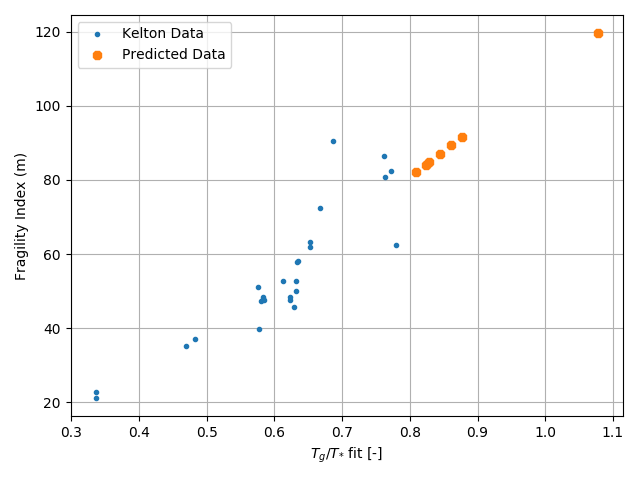
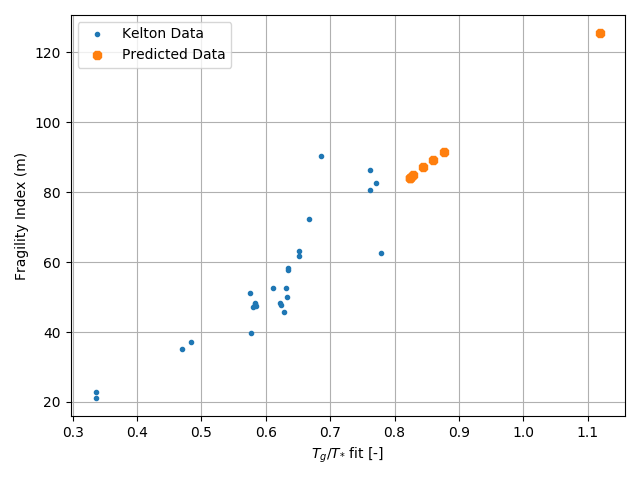
Further organized data. MD now has tl and dmax from experiments. They are separated by paper source

diff --git a/ml/data_original/md.py b/ml/data_original/md.py
@@ -1,41 +1,64 @@
 import pandas as pd
 
-df = pd.read_csv('data.txt')
 
+def md_data(dfexp, dfmd, source):
+
+    # Filter by source
+    dfexp = dfexp[dfexp['source'].isin([source])]
+
+    # Truncate data
+    dfexp = dfexp[['composition', 'tl', 'tg', 'dmax']]
+    dfmd = dfmd[['composition', 'tg', 'tstar']]
+
+    # Take mean experimental values
+    dfexp = dfexp.groupby(['composition']).mean()
+    dfexp = dfexp.dropna()
+
+    # Change Tg naming convention
+    dfexp = dfexp.rename({'tg': 'tg_exp'}, axis=1)
+    dfmd = dfmd.rename({'tg': 'tg_md'}, axis=1)
+
+    # Combine use experimental Tl values for MD
+    dfmd = pd.merge(
+                    dfmd,
+                    dfexp,
+                    on=['composition']
+                    )
+
+    # Take statistic values for each composition
+    groups = dfmd.groupby(['composition'])
+    mean = groups.mean().add_suffix('_mean').reset_index()
+    std = groups.std().add_suffix('_std').reset_index()
+    sem = groups.sem().add_suffix('_sem').reset_index()
+    count = groups.count().add_suffix('_count').reset_index()
+
+    # Combine statistics
+    mean = mean.merge(std)
+    mean = mean.merge(sem)
+    mean = mean.merge(count)
+
+    # Save source
+    mean['source'] = source
+
+    return mean
+
+
+# Load Data
+df = pd.read_csv('data.txt')
 
 # Separte md and experimental data
 dfexp = df[df['method'].isin(['experimental'])]
 dfmd = df[df['method'].isin(['md'])]
 
-# Truncate data
-dfexp = dfexp[['composition', 'tl', 'tg', 'dmax']]
-dfmd = dfmd[['composition', 'tg', 'tstar']]
+# Loop for all sources
+mean = []
+for source in set(df['source'].values):
 
-# Take mean experimental values
-dfexp = dfexp.groupby(['composition']).mean()
-dfexp = dfexp.dropna()
+    if source != source:
+        continue
 
-# Change Tg naming convention
-dfexp = dfexp.rename({'tg': 'tg_exp'}, axis=1)
-dfmd = dfmd.rename({'tg': 'tg_md'}, axis=1)
+    mean.append(md_data(dfexp, dfmd, source))
 
-# Combine use experimental Tl values for MD
-dfmd = pd.merge(
-                dfmd,
-                dfexp,
-                on=['composition']
-                )
+mean = pd.concat(mean, sort=True)
 
-# Take statistic values for each composition
-groups = dfmd.groupby(['composition'])
-mean = groups.mean().add_suffix('_mean').reset_index()
-std = groups.std().add_suffix('_std').reset_index()
-sem = groups.sem().add_suffix('_sem').reset_index()
-count = groups.count().add_suffix('_count').reset_index()
-
-# Combine statistics
-mean = mean.merge(std)
-mean = mean.merge(sem)
-mean = mean.merge(count)
-
-mean.to_csv('data_mean.txt', index=False)
+mean.to_csv('md_mean.txt', index=False)

diff --git a/ml/scripts/fit_johnson_m_fits.py b/ml/scripts/fit_johnson_m_fits.py
@@ -17,48 +17,39 @@ def score(r2, mse, mseoversigmay):
 
     return label
 
+
 # Data paths
-df = '../data_original/data.txt'
+dfmd = '../data_original/md_mean.txt'
 dfmfit = '../data/m_fit.txt'
 dfj = '../data_original/johnson_data.txt'
 
 # Import data
-df = pd.read_csv(df)
+dfmd = pd.read_csv(dfmd)
 dfmfit = pd.read_csv(dfmfit)
 dfj = pd.read_csv(dfj)
 
-# Separte md and experimental data
-dfexp = df[df['method'].isin(['experimental'])]
-dfmd = df[df['method'].isin(['md'])]
-
-# Truncate data
-dfexp = dfexp[['composition', 'tl', 'tg/tl', 'm', 'dmax']]
-dfmd = dfmd[['composition', 'tg']]
-
 # Combine fitted m with Trg values from md
-dfmfit = pd.merge(
-                  dfmfit,
-                  dfexp.drop(['m', 'tg/tl'], axis=1),
-                  on=['composition']
-                  )
-dfmfit = pd.merge(dfmfit, dfmd, on=['composition'])
-dfmfit['tg/tl'] = dfmfit['tg']/dfmfit['tl']
+dfmfit = pd.merge(dfmfit, dfmd)
 
 # Truncate data
-dfmfit = dfmfit[['composition', 'tg/tl', 'm', 'dmax']].dropna()
-dfj = dfj[['composition', 'tg/tl', 'm', 'dmax']].dropna()
 dfj = dfj.dropna()
+dfmfit = dfmfit.dropna()
 
 # Remove md data from johnson data
 dfj = dfj[~dfj['composition'].isin(dfmfit['composition'].values)]
 
+# Calculate features
+dfmfit['tg_md/tl'] = dfmfit['tg_md_mean']/dfmfit['tl_mean']
+dfmfit['tg_exp/tl'] = dfmfit['tg_exp_mean']/dfmfit['tl_mean']
+dfj['tg/tl'] = dfj['tg']/dfj['tl']
+
 # Take the log of the squared dmax
 dfj['log(dmax^2)'] = np.log10(dfj['dmax']**2)
-dfmfit['log(dmax^2)'] = np.log10(dfmfit['dmax']**2)
+dfmfit['log(dmax^2)'] = np.log10(dfmfit['dmax_mean']**2)
 
 # ML
 X_train = dfj[['m', 'tg/tl']].values
-X_test = dfmfit[['m', 'tg/tl']].values
+X_test = dfmfit[['m', 'tg_md/tl']].values
 
 y_train = dfj['log(dmax^2)'].values
 y_test = dfmfit['log(dmax^2)'].values

diff --git a/ml/scripts/m_vs_tgovertstar.py b/ml/scripts/m_vs_tgovertstar.py
@@ -7,31 +7,19 @@ import numpy as np
 
 # Data paths
 dfkelton = '../../paper_data/kelton/m_vs_tgovertstar.txt'
-df = '../data_original/data.txt'
+df = '../data_original/md_mean.txt'
 
 # Import data
 dfkelton = pd.read_csv(dfkelton)
 df = pd.read_csv(df)
 
-# Keep minimum data
-df = df[df['method'].isin(['md'])]
-df = df[['composition', 'tg/tstar', 'tl', 'tg', 'dmax']]
-
-# Take mean values for each composition
-groups = df.groupby(['composition'])
-mean = groups.mean().add_suffix('_mean').reset_index()
-std = groups.std().add_suffix('_std').reset_index()
-sem = groups.sem().add_suffix('_sem').reset_index()
-count = groups.count().add_suffix('_count').reset_index()
-
-# Combine Data
-df = pd.concat([mean, std, sem, count], axis=1)
-df = df.loc[:, ~df.columns.duplicated()]
+# Calculate features
+df['tg_md/tstar'] = df['tg_md_mean']/df['tstar_mean']
 
 # Format data for machine learning
 compositions = df['composition'].values
 X_train = dfkelton[['tg/tstar']].values
-X_test = df[['tg/tstar_mean']].values
+X_test = df[['tg_md/tstar']].values
 y_train = dfkelton['m'].values
 
 # Model
